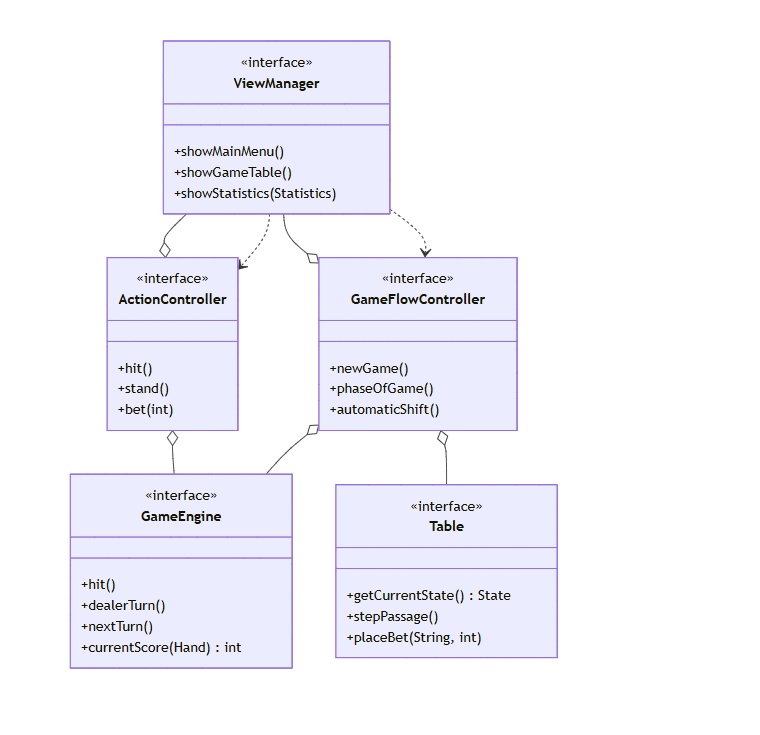
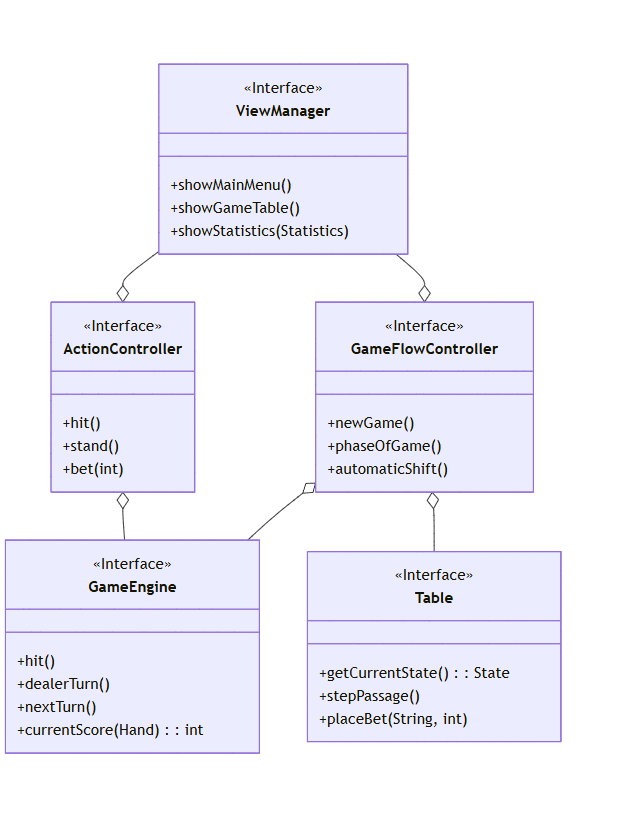
modifiche design e inizio design dettagliato

Changed region(s): [[0.0, 0.0299, 0.9105, 0.9279], [0.0, 0.6585, 0.0304, 0.6884]]

diff --git a/13-template.tex b/13-template.tex
@@ -27,25 +27,25 @@
 
 \section{Descrizione e requisiti}
 Il software ChaosJack va a fondere il gioco classico di Black Jack con le meccaniche strategiche e i modificatori tipici di giochi come Balatro, un incontro tra il Poker classico 
-e un videogioco di strategia e "rompicapo". L'obiettivo principale del giocatore è quello di sfidare e vincere sia contro il banco sia contro gli altri giocatori presenti al tavolo. Oltre ai giocatori effettivi saranno presenti dei giocatori bot, che seguiranno le regole di gioco in automatico.Il giocatore per partecipare alla partita deve fare una puntata base. Successivamente il banco da due carte ad ogni giocatore, e queste sono le sue carte di partenza, che verranno date scoperte.
-Successivamente il banco scarta una carta e gira la successiva a faccia scoperta sul tavolo. Il valore della carta è 10 se è una figura, può valere 1 o 11 se è un asso a descrizione di chi la pesca, 
-il restante delle carte valgono quanto indicato nella carta stessa. A questo punto il giocatore in base al punteggio delle sue carte decide se chiedere un ulteriore carta al banco, la richiesta può essere effettuta più volte durante il suo turno.
-Se durante la richieste delle carte, la somma di esse in mano supera 21, il giocatore in turno perde automaticamente ed è fuori dalla partita. Il turno di un giocatore finisce quando decide di "stare", ovvere quando non vuole pescare ulteriori carte.
-Poi il turno passa al giocatore successivo. Il banco quando ha finito di servire tutti i giocatori presenti al tavolo, questi possono fare delle ulteriori scommesse, scegliendo una somma a sue discrizione o raddoppiando quanto messo precedentemente, prima che giochi il banco.
-Finita la fase finale di scomesssa dei giocatori, il turno passa al banco e pesca lui stesso dal mazzo le carte, scartando sempre la prima e girando la seconda sommando di volta in volta 
-il valore delle carte girate. Il banco ha l'obbligo di arrivare almeno a 17 di punteggio, poi può decidere se continuare a pescare o a fermarsi. 
-Il superamento del valore 21 vale anche per il banco, in caso succeda il banco è fuori e la vincita verrà contesa tra chi ha il punteggio più alto tra i giocatori ancora attivi. In questo situazione se i giocatori pareggiano con stesso punteggio e stesso numero di carte, la vincita verrà raddoppiata e divisa tra i giocatori.
-Se il banco non è fuori si hanno diverse caratteristiche per decretare il vincitore, essendo un tutti contro tutti, per vincere bisogna battere sia il banco che gli altri giocatori. In caso di pareggio con il banco o un altro giocatore vince chi ha meno carte in mano.
-Alla fine della partita se vince solo un giocatore, egli otterrà come vincita la somma del piatto raddoppiata. Nel piatto sono presenti le fiches scommesse da tutti giocatori durante la partita. Se la vincita viene fatta con il punteggio massimo, ovvero si fa Blackjack, il valore del piatto viene triplicato, se invece viene fatta con una mano avente carte tutte dello stesso colore, si avrà un bonus 
-dove la vincita viene triplica. In fine in caso di vincita con Blackjack e bonus, il valore del piatto viene moltiplicato per cinque.
-All'avvio di una partita il giocatore potrebbe imbattersi in una partita "speciale", dove sono inseriti dei vincoli che modificano i punteggi delle carte.
-Inoltre a differenza del Blackjack tradizionale, nel mazzo saranno presenti delle carte speciali con un proprio punteggio.
+e un videogioco di strategia e "rompicapo". L'obiettivo principale del giocatore è quello di sfidare e vincere sia contro il banco sia contro gli altri giocatori presenti al tavolo. Oltre ai giocatori effettivi saranno presenti dei giocatori bot, che seguiranno le regole di gioco in automatico.
+Svolgimento della partita: 
+\begin{itemize}
+	\item Fase iniziale: Per partecipare, ogni giocatore effettua una puntata base. Il banco distribuisce due carte scoperte a ciascun giocatore e a se stesso (scartando la prima e mostrando la seconda).
+	\item Valore delle carte: Le figure valgono 10, l'Asso vale 1 o 11 a discrezione del giocatore, le altre carte mantengono il loro valore nominale.
+	\item Turno del giocatore: In base al proprio punteggio, il giocatore può chiedere ulteriori carte ("hit") più volte. Se la somma supera 21, il giocatore sballa ed è fuori dalla partita. Il turno termina quando il giocatore decide di fermarsi ("stand").
+	\item Fase di puntata finale : Terminato il turno di tutti i giocatori, è possibile effettuare ulteriori scommesse scegliendo una somma o raddoppiando il precedente(questo solo se si possegono due carte in mano).
+	\item Turno del banco: Il banco pesca carte fermandosi obbligatoriamente al raggiungimento di un punteggio pari o superiori a 17. Se il banco supera 21, la vincita è contesa tra i giocatori ancora attivi con il punteggio più alto.
+\end{itemize}
+Condizioni di vittoria e punteggi :
+Essendo un tutti contro tutti, per vincere bisogna battere sia il banco che gli altri giocatori.  A parità di punteggio, vince chi ha meno carte in mano. Se il pareggio persiste tra più giocatori, la vincita viene divisa. La vincita standard raddoppia il piatto. Il raggiungimento del Blackjack triplica il piatto, mentre una mano monocolore fornisce un moltiplicatore bonus.
+Inoltre, all'avvio di una partita, il giocatore potrebbe imbattersi in turni "speciali" e carte speciali con vincoli che alterano i punteggi.
+
 
 \subsubsection{Requisiti funzionali}
 \begin{itemize}
 	\item Il sistema deve permettere lo svolgimento della logica di base del Blackjack, includendo la distribuzione iniziale delle carte e il loro mescolamento. Inoltre deve garantire le azioni di richiesta delle carte, fermarsi, uscire e puntare.
 	\item Il sistema deve calcolare correttamente i punteggi delle mani, gestendo la soglia massima del 21 e le regole specifiche associate alle singole carte.
-	\item Il gioco deve incrementare automaticamente la difficoltà nei turni speciali, applicando modificatori alle regole di base.
+	\item Il gioco deve applicare automaticamente le alterazioni delle regole durante i turni speciali.
 	\item Il software deve gestire i portafogli virtuali (fish) sia del giocatore che del banco, aggiornandoli in base all'esito delle puntate.
 \end{itemize}
 
@@ -58,9 +58,9 @@ Inoltre a differenza del Blackjack tradizionale, nel mazzo saranno presenti dell
 
 \section{Modello del Dominio}
 
-L'ambiente principale è il tavolo, il quale riunisce tutte le entità coinvolte e scandisce lo svolgimento del gioco. Al tavolo siedono i partecipanti, ovvero il banco, i giocatori e i giocatori bot (i quali seguono logiche autonome). Ciascun partecipante è dotato di un proprio portafoglio di fisches e riceve una mano di carte.
+L'ambiente principale è il tavolo, il quale riunisce tutte le entità coinvolte e scandisce lo svolgimento del gioco. Al tavolo siedono i partecipanti, ovvero il banco, i giocatori e i giocatori bot (i quali seguono logiche autonome). Ciascun partecipante è dotato di un proprio portafoglio di fiches e riceve una mano di carte.
 L'intero flusso della partita al tavolo è organizzato in una sequenza di fasi ben distinte (come la puntata iniziale o la fase di gioco). 
-All'interno di ogni fase, l'azione si artiola nei turni individuali dei partecipanti. Durante le fasi di socmmessa, le fiches convergono in un piatto centrale. Le carte vengono fornite da un mazzo,  che include sia le carte classiche che speciali.
+All'interno di ogni fase, l'azione si articola nei turni individuali dei partecipanti. Durante le fasi di scommessa, le fiches convergono in un piatto centrale. Le carte vengono fornite da un mazzo, che include sia le carte classiche che speciali.
 Infine, specifiche partite possono essere alterate dall'applicazione di modificatori, i quali introducono vincoli temporanei alle regole di base alterando le normali fasi di gioco.
 
 \begin{figure}[H]
@@ -74,19 +74,22 @@ Infine, specifiche partite possono essere alterate dall'applicazione di modifica
 
 \section{Architettura}
 
-L'architettura adottata per il progetto ChaosJack segue il pattern architteturale MVC(Model-View-Cotroller). Questo pattern consente di avere una chiara separazione delle responsablità e una maggiore flessibilità in fase di sviluppo, permettendoci di separare la logica di gioco dalla sua rappresentazione grafica.
+L'architettura adottata per il progetto ChaosJack segue il pattern architteturale MVC(Model-View-Controller). Questo pattern consente di avere una chiara separazione delle responsablità e una maggiore flessibilità in fase di sviluppo, permettendoci di separare la logica di gioco dalla sua rappresentazione grafica.
 Ovvero è possibile sostituire il blocco della view senza richiedere alcuna modifica nel Controller e nel Model.
 L'architettura si basa su queste componenti principali:
 \begin{itemize}
-	\item GameEngine
-	\item Table 
-	\item ViewManager
-	\item GameFlowController
-	\item ActionController
+	\item Model : GameEngine e Table
+	\item Controller : GameFlowController e ActionController
+	\item View : ViewManager
 \end{itemize}
-Il GameEngine e Table si occupano di gestire e mantenere in modo consistente lo stato interno del gioco (il mazzo di carte, i portafogli dei partecipanti, il calcolo dei punteggi nelle mani). Inoltre il GameEngine valida ed esegue tutte le mutazioni dello stato di gioco secondo le regole tradizionali del BlackJack e l'applicazione dei relativi modificatori speciali. Il controller rappresenta il motore attivo che si occupa di dettare  i tempi 
-e l'ordine delle diverse fasi della partita (regolando i turni tra i giocatori presenti nel tavolo).  
-Il ViewManager ha il ruolo generale di gestire la visualizzazione dei componenti all'interno della finestra, mostrando l'evoluzione della partita. Si occupa, inoltre, di gestire la fase di navigazione del menù, consentendo di avviare una nuova partita o vedere le statistiche dei round giocati.
+Il Model : Si occupa di gestire e mantenere in modo consistente lo stato interno del gioco (il mazzo di carte, i portafogli dei partecipanti, il calcolo dei punteggi nelle mani). Valida ed esegue tutte le mutazioni dello stato di gioco secondo le regole tradizionali del BlackJack e l'applicazione dei relativi modificatori speciali.
+\\
+Il controller : Rappresenta il motore attivo che si occupa di dettare  i tempi e l'ordine delle diverse fasi della partita (regolando i turni tra i giocatori presenti nel tavolo).
+\\
+La View: Ha il ruolo generale di gestire la visualizzazione dei componenti all'interno della finestra, mostrando l'evoluzione della partita. Si occupa, inoltre, di gestire la fase di navigazione del menù, consentendo di avviare una nuova partita o vedere le statistiche dei round giocati. P
+
+Grazie a questa architettura è possibile sostituire il blocco della view senza richiedere alcuna modifica nel Controller e nel Model.
+La View si limita a notificare le azioni dell'utente al Controller. Sarà poi il Controller a invocare i metodi appropriati sul Model per aggiornare lo stato.
 
 \begin{figure}[H]
 	\centering{}
@@ -95,67 +98,32 @@ Il ViewManager ha il ruolo generale di gestire la visualizzazione dei componenti
 	\label{img:architettura}
 \end{figure}
 
-\subsection*{Elementi positivi}
-\begin{itemize}
- \item Si mostrano pochi, mirati schemi UML dai quali si deduce con chiarezza quali sono le parti principali del software e come interagiscono fra loro.
- \item Si mette in evidenza se e come il pattern architetturale model-view-controller è stato applicato, anche con l'uso di un UML che mostri le interfacce principali ed i rapporti fra loro.
- \item Si discute se sia semplice o meno, con l'architettura scelta, sostituire in blocco la view:
- 	in un MVC ben fatto, controller e modello non dovrebbero in alcun modo cambiare se si transitasse da una libreria grafica ad un'altra (ad esempio, da Swing a JavaFX, o viceversa).
-\end{itemize}
-
-\subsection*{Elementi negativi}
-\begin{itemize}
- \item L'architettura è fatta in modo che sia impossibile riusare il modello per un software diverso che affronta lo stesso problema.
- \item L'architettura è tale che l'aggiunta di una funzionalità sul controller impatta pesantemente su view e/o modello.
- \item L'architettura è tale che la sostituzione in blocco della view impatta sul controller o, peggio ancora, sul modello.
- \item Si presentano UML caotici, difficili da leggere.
- \item Si presentano UML in cui sono mostrati elementi di dettaglio non appartenenti all'architettura, ad esempio includenti campi o con metodi che non interessano la parte di interazione fra le componenti principali del software.
- \item Si presentano schemi UML con classi (nel senso UML del termine) che ``galleggiano'' nello schema, non connesse, ossia senza relazioni con il resto degli elementi inseriti.
- \item Si presentano elementi di design di dettaglio, ad esempio tutte le classi e interfacce del modello o della view.
- \item Si discutono aspetti implementativi, ad esempio eventuali librerie usate oppure dettagli di codice.
-\end{itemize}
-
-\subsection*{Esempio}
-
-L'architettura di GLaDOS segue il pattern architetturale MVC.
-%
-Più nello specifico, a livello architetturale, si è scelto di utilizzare MVC in forma ``ECB'', ossia ``entity-control-boundary''\footnote{
-Si fa presente che il pattern ECB effettivamente esiste in letteratura come ``istanza'' di MVC, e chi volesse può utilizzarlo come reificazione di MVC.
-}.
-%
-GLaDOS implementa l'interfaccia AI, ed è il controller del sistema.
-Essendo una intelligenza artificiale, è una classe attiva.
-%
-GLaDOS accetta la registrazione di Input ed Output, che fanno parte della ``view'' di MVC, e sono il ``boundary'' di ECB.
-Gli Input rappresentano delle nuove informazioni che vengono fornite all'IA, ad esempio delle modifiche nel valore di un sensore, oppure un comando da parte dell'operatore.
-Questi input infatti forniscono eventi.
-Ottenere un evento è un'operazione bloccante: chi la esegue resta in attesa di un effettivo evento.
-Di fatto, quindi, GLaDOS si configura come entità \textit{reattiva}.
-Ogni volta che c'è un cambio alla situazione del soggetto, GLaDOS notifica i suoi Output,
-informandoli su quale sia la situazione corrente.
-%
-Conseguentemente, GLaDOS è un ``observable'' per Output.
-
-\begin{figure}[h]
-\centering{}
-\includegraphics[width=\textwidth]{img/arch}
-\caption{Schema UML architetturale di GLaDOS. L'interfaccia \texttt{GLaDOS} è il controller del sistema, mentre \texttt{Input} ed \texttt{Output} sono le interfacce che mappano la view (o, più correttamente in questo specifico esempio, il boundary). Un'eventuale interfaccia grafica interattiva dovrà implementarle entrambe.}
-\label{img:goodarch}
-\end{figure}
-
-Con questa architettura, possono essere aggiunti un numero arbitrario di input ed output
-all'intelligenza artificiale.
-%
-Ovviamente, mentre l'aggiunta di output è semplice e non richiede alcuna modifica all'IA, la
-presenza di nuovi tipi di evento richiede invece in potenza aggiunte o rifiniture a GLaDOS.
-%
-Questo è dovuto al fatto che nuovi Input rappresentano di fatto nuovi elementi della business
-logic, la cui alterazione od espansione inevitabilmente impatta il controller del progetto.
-
-In \Cref{img:goodarch} è esemplificato il diagramma UML architetturale.
 
 
 \section{Design dettagliato}
+
+\subsection*{Evelyn Calandrini - Gestione del Tavolo, Valutazione dei Round, Statistiche e View}
+Il contributo si è focalizzato sulla definizione del tavolo che si occupa di riunire il gioco (partecipanti, carte e regole di gioco) occupandosi poi alla fine del round di valutare il vincitore della partita. Si aggiornano così le statistiche salvando il risultato della partita. 
+Inoltre il contributo va nell'interfaccia con la gestione del cambio di finestra dalla situazione di gioco, menu, pausa e statistiche.
+
+\textbf{Gestone dello Stato e delle puntate}
+\\
+\begin{figure}[H]
+	\centering{}
+	\includegraphics[width=0.3\textwidth]{UML-gestioneStatoTavolo.png}
+	\caption{Schema UML rappresenta la gestioni delle fasi di gioco del tavolo}
+	\label{img:design}
+\end{figure}
+\textbf{Problema} : In un ambiene di gioco a turni, è neccessario garantire che le azione dei singoli giocatori (come effettuare una puntata o chiedere le carte) avvengano esclusivamente nelle fasi corrette di gioco, prevendendo stati inconsistenti o alterazioni 
+illecite del piatto.
+\\ 
+\textbf{Soluzione} : Il sistema utilizza un approccio basato su enumerazione (State) per indentificare le varie fasi di gioco e con il relativo metodo di transazione (next())
+Il tavolo (TableImpl) verfica lo stato corrente prima di ogni operaizone. In questo modo le varie azione di gioco controllano prima di essere nello stato corretto, se l'azione non è ammessa l'esecuzione viene interrotta lanciando un eccezione. 
+
+
+
+
+
 
 In questa sezione si possono approfondire alcuni elementi del design con maggior dettaglio.
 %